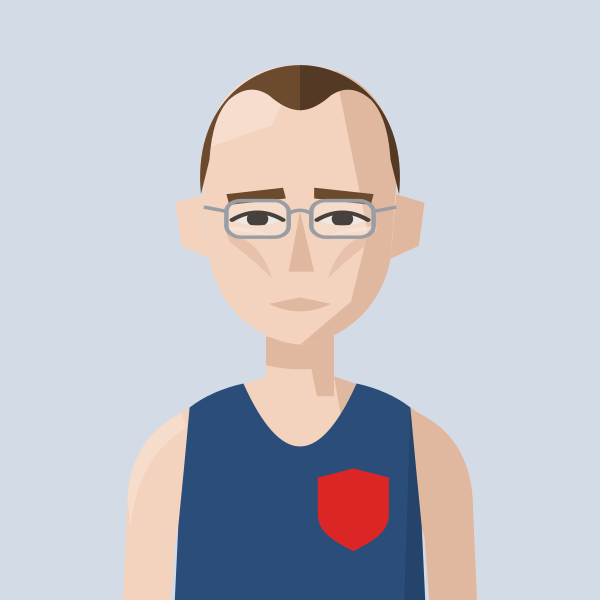
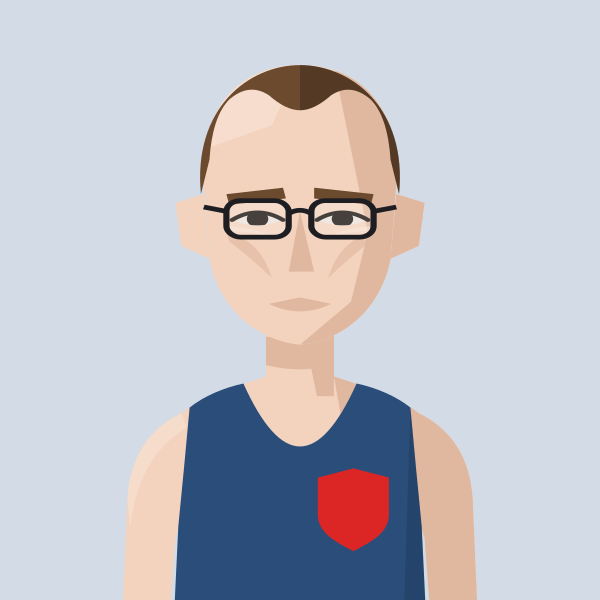
Nick Torry: dark-framed glasses (new frame colour option)
Claude-Session: https://claude.ai/code/session_01MgmDWhFqnSSnP4iBLKXUZC

Changed region(s): [[0.33, 0.33, 0.66, 0.42]]

diff --git a/files/index.html b/files/index.html
@@ -581,7 +581,7 @@ return m;})();
 const portraitFile=(name,club)=>{const k=normalizeNameForCompare(name||'').replace(/\s*\(([^)]*)\)$/,(m,c)=>CLUBS[c.toUpperCase()]?'':m);const a=PORTRAITS[k];if(a&&a.club===club)return a.file;const b=PORTRAITS[k+'@'+club];return b?b.file:null;};
 // Athlete header figure: superstar portrait if we have one, else a grey runner in the club vest, else the plain vest icon
 // Changes whenever any portrait changes (set by tools/build_og.py), so browsers fetch fresh images instead of old cached ones
-const PORTRAIT_V='0f15dbc6';
+const PORTRAIT_V='1cfeb8ed';
 const AthletePortrait=({name,club,w,fill,onClick})=>{const[failed,setFailed]=useState(false);const file=portraitFile(name,club);const src=file?`/portraits/athletes/${file}.svg?v=${PORTRAIT_V}`:PORTRAIT_CLUBS.has(club)?`/portraits/clubs/${club.replace(/\//g,'').replace(/&/g,'and')}.svg?v=${PORTRAIT_V}`:null;if(!src||failed)return<div onClick={onClick} className={onClick?'cursor-pointer':''}><ClubShield club={club} size={w}/></div>;const h=Math.round(w*148/126),ih=Math.round(w*1.4);if(fill)return<div onClick={onClick} className="cursor-pointer" style={{alignSelf:'stretch',minHeight:h,aspectRatio:'126 / 148',flexShrink:0,position:'relative',borderRadius:4,overflow:'hidden'}}><img src={src} alt={file?`Portrait of ${name.replace(/\s*\([^)]*\)$/,'')}`:`Runner in ${CLUBS[club]?.name||club} vest`} style={{position:'absolute',top:0,left:0,display:'block',width:'100%',height:'auto'}} onError={()=>setFailed(true)}/></div>;return<div style={{width:w,height:h,borderRadius:4,overflow:'hidden',flexShrink:0}}><img src={src} alt={file?`Portrait of ${name.replace(/\s*\([^)]*\)$/,'')}`:`Runner in ${CLUBS[club]?.name||club} vest`} width={w} height={ih} style={{display:'block',width:w,height:ih}} onError={()=>setFailed(true)}/></div>;};
 const getClubVestSvg=(club)=>{
   const p="M3 0 L6 0 Q7 4 10 5 Q13 4 14 0 L17 0 L17 20 L3 20 Z";

diff --git a/tools/gen_portraits.py b/tools/gen_portraits.py
@@ -160,7 +160,7 @@ FACIAL = {
 def _eyewhite(sk):  # an off-white, tinted towards the skin so it never glares
     return '#' + ''.join(f'{round(int(sk[i:i+2],16)*0.3+0xE8*0.7):02X}' for i in (1,3,5))
 
-def figure(kit, mode="custom", skin=1, hair="crop", hair_colour="dark brown", facial=None, cap=None, shades=False, tattoos=False, beanie=None, mud=False, glasses=False, roots=None, stars=0, gaunt=False, greying=False, headband=None, cap_back=False, facial_colour=None, tag="f", shades_col=None, shades_up=False, scrunchie=None, crown=False, jacket=None, medal=None, temples=False, cleft=False, brow_colour=None, jacket_marks=None, define=None, frown=False, hood=None, puffy=False, creases=False, necklace=None, shades_frame="#F4F4F2", thin_brows=False, headband_thick=False, parting=False, rosy=False):
+def figure(kit, mode="custom", skin=1, hair="crop", hair_colour="dark brown", facial=None, cap=None, shades=False, tattoos=False, beanie=None, mud=False, glasses=False, roots=None, stars=0, gaunt=False, greying=False, headband=None, cap_back=False, facial_colour=None, tag="f", shades_col=None, shades_up=False, scrunchie=None, crown=False, jacket=None, medal=None, temples=False, cleft=False, brow_colour=None, jacket_marks=None, define=None, frown=False, hood=None, puffy=False, creases=False, necklace=None, shades_frame="#F4F4F2", thin_brows=False, headband_thick=False, parting=False, rosy=False, glasses_col="#9A9DA3"):
     primary, extras, ground = KITS[kit]
     line = mode == "outline"
     if mode == "custom": sk, dk, lt = SKIN[skin]
@@ -266,8 +266,9 @@ def figure(kit, mode="custom", skin=1, hair="crop", hair_colour="dark brown", fa
             if hair == "highpony":  # hair tie where the bunch is gathered on top
                 hg.append('<path d="M89,40 Q100,44 111,40 L110,44.5 Q100,48.5 90,44.5 Z" fill="#000" fill-opacity=".35"/>')
     if custom and glasses:
-        hg.append('<g fill="#FFFFFF" fill-opacity=".18" stroke="#9A9DA3" stroke-width="1.6"><rect x="74" y="103" width="22" height="17" rx="5"/><rect x="104" y="103" width="22" height="17" rx="5"/></g>'
-                  '<path d="M96,109 Q100,106 104,109 M74,108 L66,106 M126,108 L134,106" fill="none" stroke="#9A9DA3" stroke-width="1.6"/>')
+        gw = "2.2" if glasses_col != "#9A9DA3" else "1.6"
+        hg.append(f'<g fill="#FFFFFF" fill-opacity=".18" stroke="{glasses_col}" stroke-width="{gw}"><rect x="74" y="103" width="22" height="17" rx="5"/><rect x="104" y="103" width="22" height="17" rx="5"/></g>'
+                  f'<path d="M96,109 Q100,106 104,109 M74,108 L66,106 M126,108 L134,106" fill="none" stroke="{glasses_col}" stroke-width="{gw}"/>')
     if custom and shades:
         hg.append('<path d="M66,104 Q100,98 134,104 L131,121 Q118,128 104,120 L100,116 L96,120 Q82,128 69,121 Z" fill="' + (shades_col or "#2B3039") + '"/>'
                   '<path d="M72,108 Q84,105 94,108 L92,112 Q82,110 73,112 Z" fill="#8FA3B8" opacity=".55"/>'
@@ -718,4 +719,4 @@ save("bernie-ford", figure("AFD", skin=1, hair="seventies", hair_colour="#1E1714
 save("dave-taylor", figure("HHH", skin=2, hair="croprecede", hair_colour="#5A3E2B", gaunt=True))
 save("ben-reynolds", figure("THH", skin=1, hair="buzzrecede", hair_colour="#6B5A4A", gaunt=True))
 save("tom-jervis", figure("H/W", skin=1, hair="quiff", hair_colour="#E3C98A", facial="stubble", facial_colour="#C9A060", brow_colour="#C9A060", rosy=True))
-save("nick-torry", figure("KEN", skin=1, hair="croprecede", hair_colour="#6B4A2E", glasses=True, gaunt=True))
+save("nick-torry", figure("KEN", skin=1, hair="croprecede", hair_colour="#6B4A2E", glasses=True, glasses_col="#1E1E22", gaunt=True))
